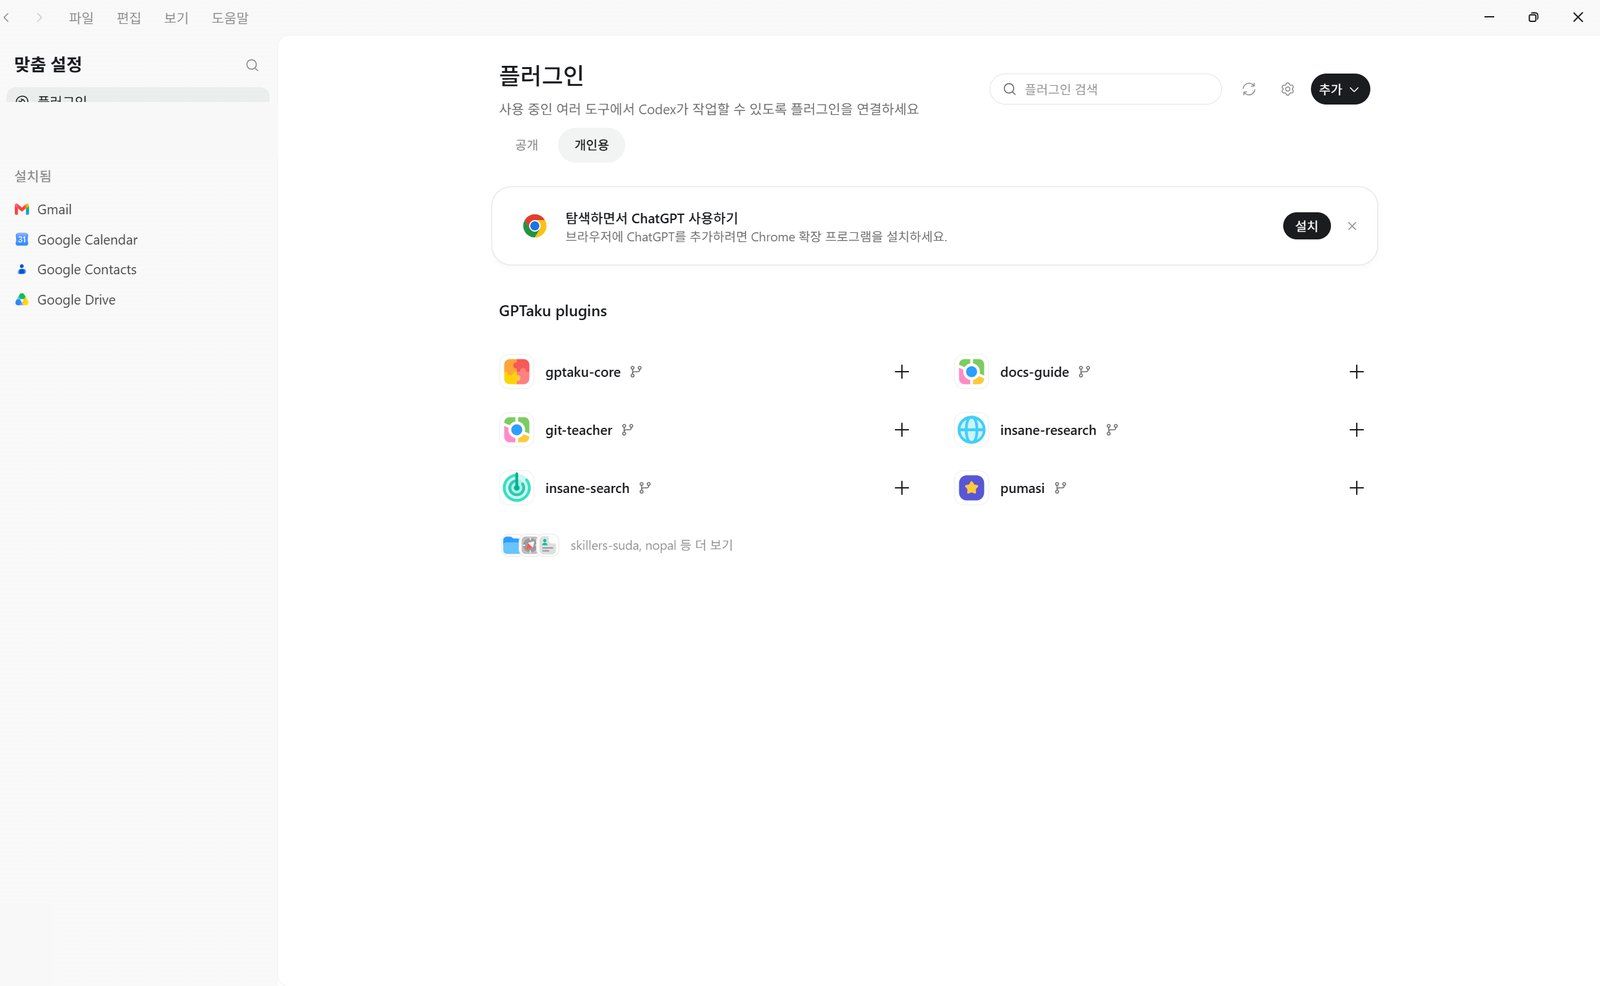
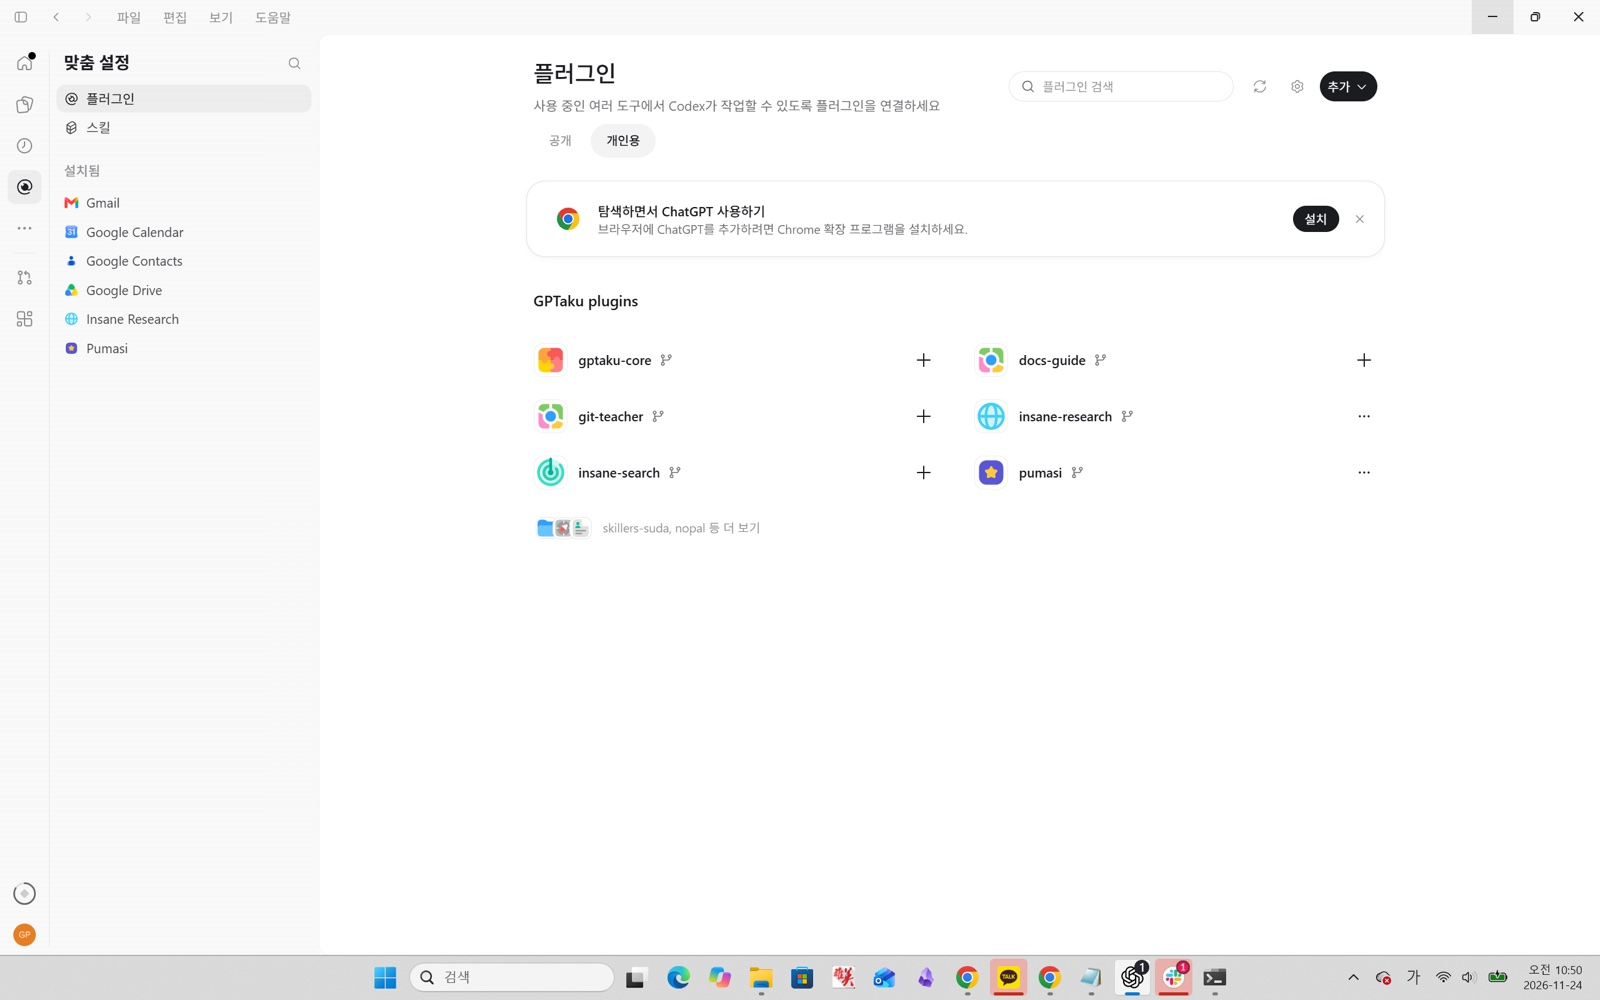
docs(rnd): 1교시 플러그인 화면을 개인용 탭 목록·13개 설치 기준으로 다시 찍음
Assisted-by: claude-code:claude-ocx-teamclaude--claude-opus-5-5
Agent-Trace: 7d6e5520-5ccf-4f19-92ca-91081f92f2fd

diff --git a/content/parts/lab-1-01-warmup.md b/content/parts/lab-1-01-warmup.md
@@ -140,7 +140,7 @@ GPTaku 플러그인 마켓을 등록해 줘
 3. 아래 표의 13개를 옆의 **+** 로 설치합니다(`gptaku-core` 먼저).
 4. **공개** 탭에는 Gmail·Teams·Canva·Figma 같은 일반 서비스 플러그인이 있습니다. 오늘은 설치하지 않고, 나중에 필요한 것을 같은 방법으로 설치해 씁니다.
 
-![등록된 GPTaku 플러그인 목록이 보이는 화면](/images/rnd/r1-11-plugin-list.jpg)
+![맞춤 설정 → 플러그인 → 개인용 탭의 GPTaku plugins 목록과 '더 보기'](/images/rnd/r1-11-plugin-list.jpg)
 
 | 플러그인 | 오늘 | 한 줄 설명 |
 |---|---|---|
@@ -166,7 +166,7 @@ GPTaku 플러그인 마켓을 등록해 줘
 오늘 쓸 GPTaku 플러그인 13개를 설치해 줘
 ```
 
-![Insane Research와 Pumasi가 설치된 플러그인 화면](/images/rnd/r1-12-installed.jpg)
+![GPTaku plugins 전체 목록에서 13개를 설치해 왼쪽 설치됨에 보이는 화면](/images/rnd/r1-12-installed.jpg)
 
 **확인할 것:** 승인 창이 뜨면 승인합니다. 표의 13개가 설치됨으로 보이는지 봅니다. 특히 `insane-research`와 `pumasi`.
 
